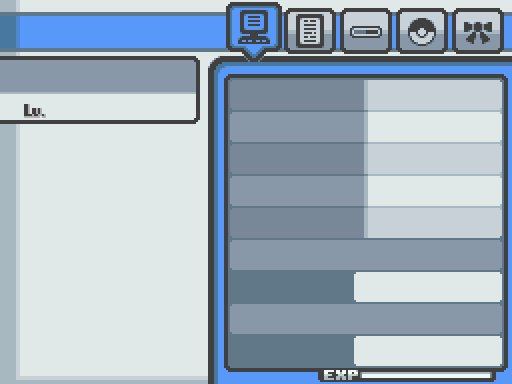
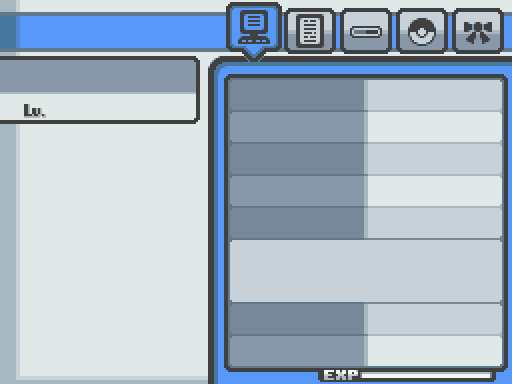
Pokemon summary tab 1 (Info) slight rework

Changed region(s): [[0.4375, 0.625, 1.0, 0.9688]]

diff --git a/Plugins/Tectonic UI/UI_Summary.rb b/Plugins/Tectonic UI/UI_Summary.rb
@@ -507,49 +507,45 @@ class PokemonSummary_Scene
         overlay = @sprites["overlay"].bitmap
         base   = Color.new(248, 248, 248)
         shadow = Color.new(104, 104, 104)
-        dexNumBase   = @pokemon.shiny? ? Color.new(248, 56, 32) : Color.new(64, 64, 64)
-        dexNumShadow = @pokemon.shiny? ? Color.new(224, 152, 144) : Color.new(176, 176, 176)
+        blackBase = Color.new(64, 64, 64)
+        blackShadow = Color.new(176, 176, 176)
         # Write various bits of text
         infoTextLabelX = 238
         infoTextInsertedX = 435
         infoLabelBaseY = 74
         textpos = [
             [_INTL("Species"), infoTextLabelX, infoLabelBaseY, 0, base, shadow],
-            [@pokemon.speciesName, infoTextInsertedX, infoLabelBaseY, 2, Color.new(64, 64, 64), Color.new(176, 176, 176)],
+            [@pokemon.speciesName, infoTextInsertedX, infoLabelBaseY, 2, blackBase, blackShadow],
             [_INTL("Type"), infoTextLabelX, infoLabelBaseY + 32, 0, base, shadow],
             [_INTL("OT"), infoTextLabelX, infoLabelBaseY + 32 * 2, 0, base, shadow],
             [_INTL("ID No."), infoTextLabelX, infoLabelBaseY + 32 * 3, 0, base, shadow],
-            [_INTL("Obtain Lv."), infoTextLabelX, infoLabelBaseY + 32 * 4, 0, base, shadow],
+            [_INTL("Marks"), infoTextLabelX, infoLabelBaseY + 32 * 4, 0, base, shadow],
         ]
         # Write Original Trainer's name and ID number
         if @pokemon.owner.name.empty?
-            textpos.push([_INTL("RENTAL"), infoTextInsertedX, infoLabelBaseY + 32 * 2, 2, Color.new(64, 64, 64), Color.new(176, 176, 176)])
-            textpos.push(["?????", infoTextInsertedX, infoLabelBaseY + 32 * 3, 2, Color.new(64, 64, 64), Color.new(176, 176, 176)])
+            textpos.push([_INTL("RENTAL"), infoTextInsertedX, infoLabelBaseY + 32 * 2, 2, blackBase, blackShadow])
+            textpos.push(["?????", infoTextInsertedX, infoLabelBaseY + 32 * 3, 2, blackBase, blackShadow])
         else
-            ownerbase   = Color.new(64, 64, 64)
-            ownershadow = Color.new(176, 176, 176)
-            case @pokemon.owner.gender
-            when 0
-                ownerbase = Color.new(24, 112, 216)
-                ownershadow = Color.new(136, 168, 208)
-            when 1
-                ownerbase = Color.new(248, 56, 32)
-                ownershadow = Color.new(224, 152, 144)
-            end
-            textpos.push([@pokemon.owner.name, infoTextInsertedX, infoLabelBaseY + 32 * 2, 2, ownerbase, ownershadow])
-            textpos.push([format("%05d", @pokemon.owner.public_id), infoTextInsertedX, infoLabelBaseY + 32 * 3, 2, Color.new(64, 64, 64),
-                          Color.new(176, 176, 176),])
+            textpos.push([@pokemon.owner.name, infoTextInsertedX, infoLabelBaseY + 32 * 2, 2, blackBase, blackShadow])
+            textpos.push([format("%05d", @pokemon.owner.public_id), infoTextInsertedX, infoLabelBaseY + 32 * 3, 2, blackBase,
+                          blackShadow,])
         end
-        # Write the Pokemon's original level of obtaining
-        textpos.push([@pokemon.obtain_level.to_s, infoTextInsertedX, infoLabelBaseY + 32 * 4, 2, Color.new(64, 64, 64),
-            Color.new(176, 176, 176),])
+        # Draw the Pokémon's markings
+        drawMarkings(overlay,infoTextInsertedX - 48,infoLabelBaseY + 32 * 4 + 12)
+        # Write the Pokemon's original map and level of obtaining
+        obtainText = "Obtained at level #{@pokemon.obtain_level.to_s} in"
+        textpos.push([obtainText, infoTextLabelX, infoLabelBaseY + 32 * 5 + 2, 0, blackBase, blackShadow])
+        mapname = pbGetMapNameFromId(@pokemon.obtain_map)
+        mapname = @pokemon.obtain_text if @pokemon.obtain_text && !@pokemon.obtain_text.empty?
+        mapname = _INTL("a faraway place") if nil_or_empty?(mapname)
+        textpos.push([mapname, infoTextLabelX, infoLabelBaseY + 32 * 6 - 2, 0, Color.new(24, 112, 216), Color.new(136, 168, 208)])
         # Write experience point info
         endexp = @pokemon.growth_rate.minimum_exp_for_level(@pokemon.level + 1)
-        textpos.push([_INTL("Exp. Points"), 238, 234, 0, base, shadow])
-        textpos.push([@pokemon.exp.to_s_formatted, 488, 266, 1, Color.new(64, 64, 64), Color.new(176, 176, 176)])
-        textpos.push([_INTL("To Next Lv."), 238, 298, 0, base, shadow])
-        textpos.push([(endexp - @pokemon.exp).to_s_formatted, 488, 330, 1, Color.new(64, 64, 64),
-                      Color.new(176, 176, 176),])
+        textpos.push([_INTL("Exp. Points"), 238, infoLabelBaseY + 32 * 7, 0, base, shadow])
+        textpos.push([@pokemon.exp.to_s_formatted, 488, infoLabelBaseY + 32 * 7, 1, blackBase, blackShadow])
+        textpos.push([_INTL("To Next Lv."), 238, infoLabelBaseY + 32 * 8, 0, base, shadow])
+        textpos.push([(endexp - @pokemon.exp).to_s_formatted, 488, infoLabelBaseY + 32 * 8, 1, blackBase,
+                      blackShadow,])
         # Draw all text
         pbDrawTextPositions(overlay, textpos)
         # Draw Pokémon type(s)
@@ -571,8 +567,6 @@ class PokemonSummary_Scene
                                      ["Graphics/Pictures/Summary/overlay_exp", 362, 372, 0, 0, w, 6],
                                  ])
         end
-        # Draw the Pokémon's markings
-        drawMarkings(overlay,104,24)
     end
 
     def drawPageOneEgg
